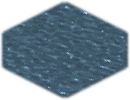
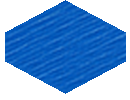
New textures

diff --git a/frontend/src/lib/planetMap.js b/frontend/src/lib/planetMap.js
@@ -9,19 +9,18 @@ export const SPRITE_Y_OFFSET = -CELL_H / 2 + 8;
 
 export const TERRAIN_COLORS = {
   '0': '#0066CC',
-  '1': '#663300',
-  '2': '#999999',
-  '3': '#CCCCCC',
-  '4': '#CCCC33',
-  '5': '#006600',
-  '6': '#009900',
-  '7': '#006600',
-  '8': '#DDDDDD',
-  '9': '#DD9900',
+  '1': '#0E2F7A',
+  '2': '#2A1A10',
+  '3': '#8B4A2B',
+  '4': '#D9CDB8',
+  '5': '#2E7A32',
+  '6': '#6B3A1C',
+  '7': '#1C1C1C',
+  '8': '#F0EEE6',
+  '9': '#D4A017',
 };
 
 export const BLD_LABELS = {
-  A: 'Академия',
   B: 'Строительство',
   C: 'Капсула',
   K: 'Карьер',
@@ -146,7 +145,7 @@ export function selectionPos(x, y) {
   return tileDrawPos(x, y);
 }
 
-export const HEX_POINTS = '65,2 128,34 128,65 65,97 2,65 2,34';
+export const HEX_POINTS = '65,0 125,32 125,61 65,93 5,61 5,32';
 
 export function clampMapOffset(ox, oy, mapW, mapH, viewW, viewH, zoom) {
   const scaledW = (mapW * zoom) / 4;

diff --git a/www/page.php b/www/page.php
@@ -262,13 +262,6 @@
         include './pages/environment/defence.page';
         break;
 
-      case 286:
-        include './pages/environment/listacad.page';
-        break;
-      case 287:
-        include './pages/environment/setacad.page';
-        break;
-
       case 28:
         include './pages/environment/listbuild.page';
         break;
